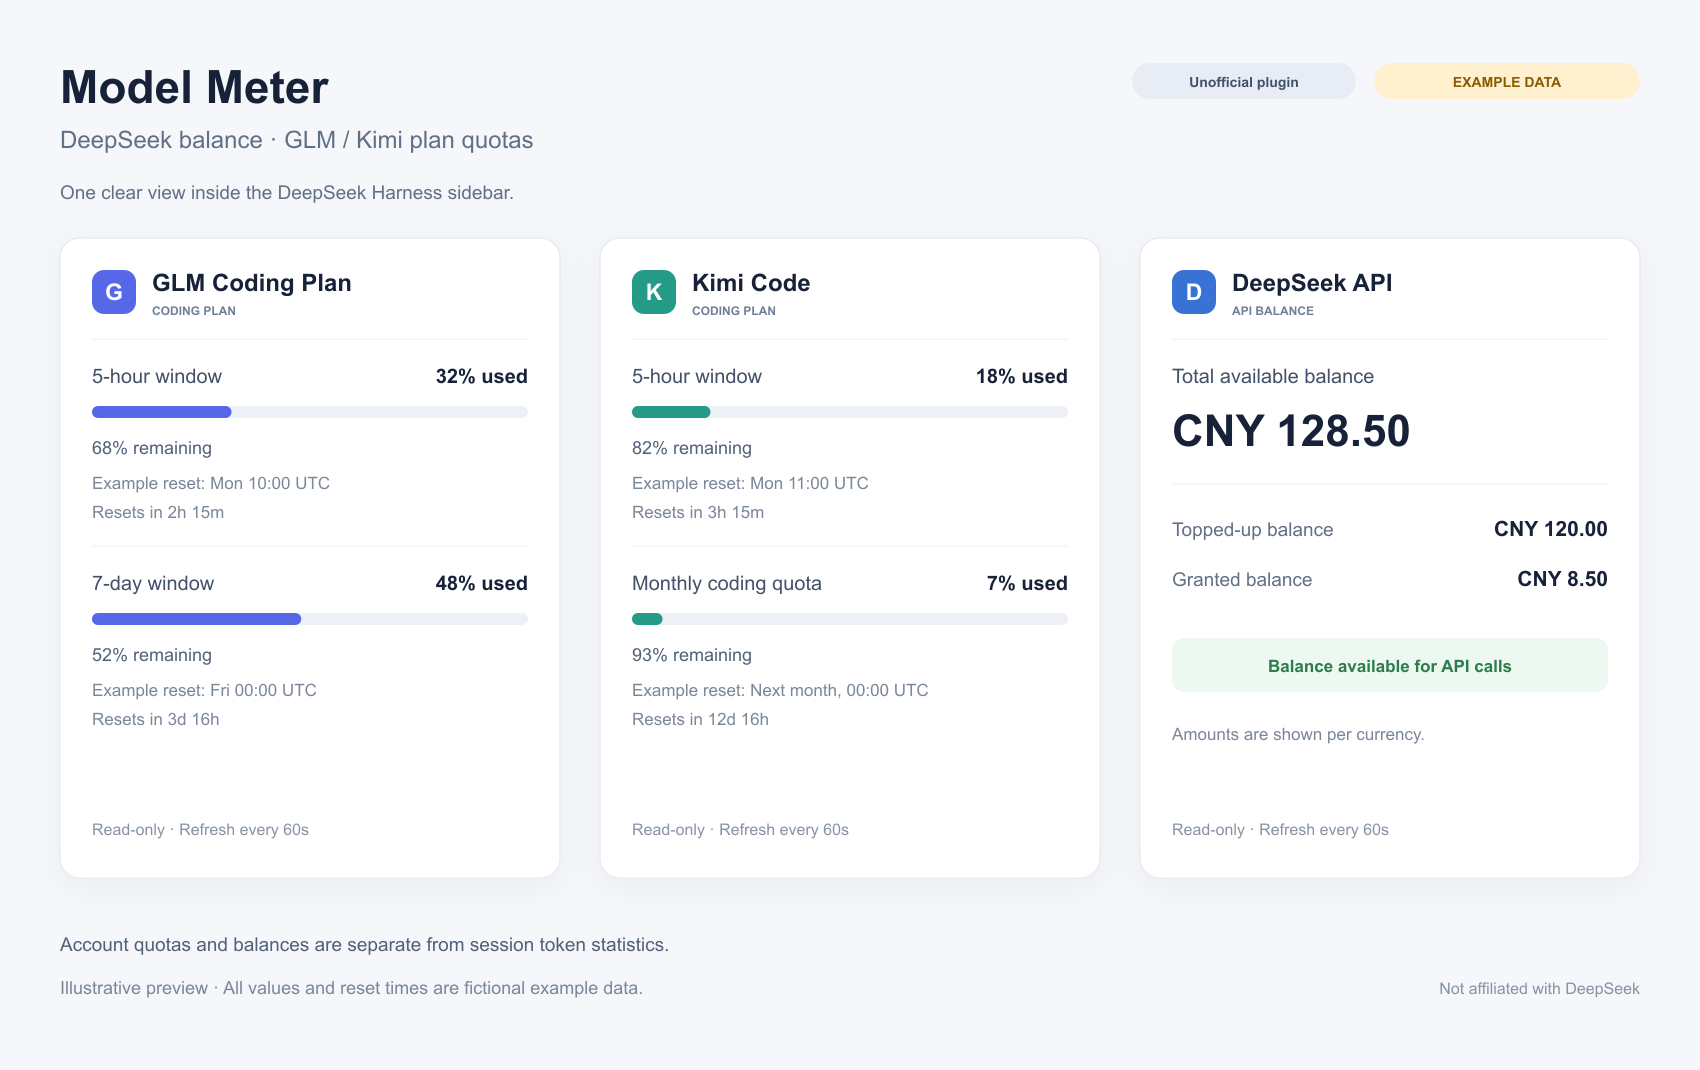
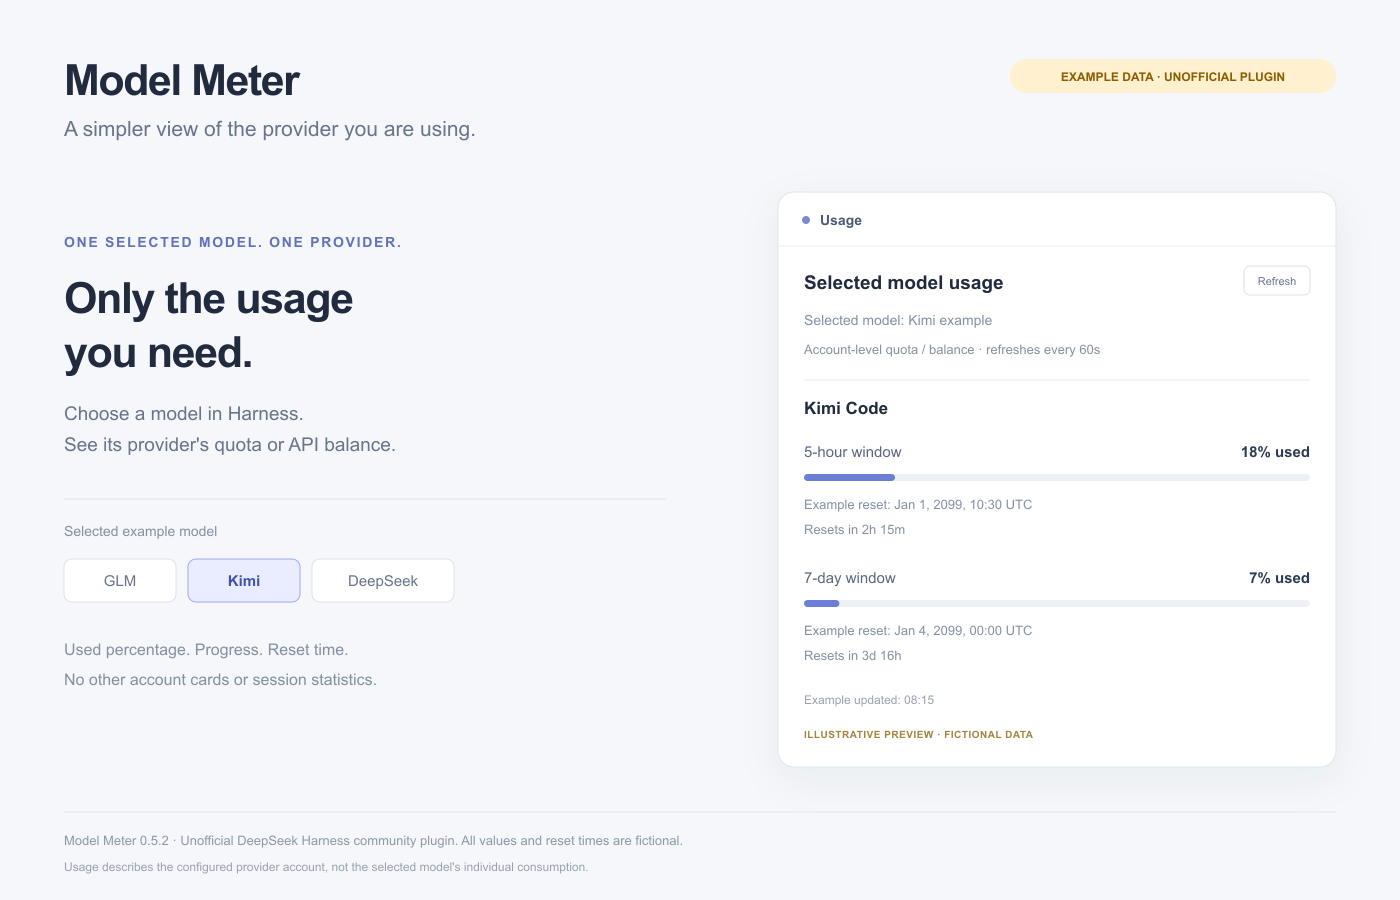
Update compact single-provider preview and offline demo

diff --git a/docs/demo.html b/docs/demo.html
@@ -4,54 +4,32 @@
 <meta charset="utf-8">
 <meta name="viewport" content="width=device-width, initial-scale=1">
 <meta http-equiv="Content-Security-Policy" content="default-src 'none'; style-src 'unsafe-inline'; script-src 'unsafe-inline'; connect-src 'none'; base-uri 'none'; form-action 'none'">
-<title>Model Meter · Offline example-data demo</title>
+<title>Model Meter 0.5.2 · Offline example-data demo</title>
 <style>
-:root{font-family:Inter,-apple-system,BlinkMacSystemFont,"Segoe UI",sans-serif;color:#172238;background:#f5f7fa;font-synthesis:none}*{box-sizing:border-box}body{margin:0}main{max-width:1320px;margin:auto;padding:48px 28px 32px}header{display:flex;justify-content:space-between;gap:24px;align-items:flex-start;margin-bottom:28px}h1{font-size:40px;letter-spacing:-1.4px;margin:0 0 10px}p{line-height:1.55}header p{margin:0;color:#627086;font-size:18px}.badges{display:flex;gap:8px;flex-wrap:wrap;justify-content:flex-end}.badge{border-radius:20px;padding:8px 13px;font-size:12px;font-weight:650;white-space:nowrap;background:#e8edf5;color:#42516a}.example{background:#fff0cf;color:#8a5d00}.toolbar{display:flex;gap:12px;align-items:center;margin:20px 0 24px;flex-wrap:wrap}button{font:inherit;font-size:13px;border:1px solid #dbe2ec;background:#fff;color:#35455f;border-radius:9px;padding:9px 13px;cursor:pointer}button:hover{border-color:#6277ad}button:focus-visible{outline:3px solid #8899ec;outline-offset:3px}button[aria-pressed="true"]{background:#e9edff;border-color:#99a7f0;color:#334bb2}#refresh-status{font-size:13px;color:#627086}.grid{display:grid;grid-template-columns:repeat(3,minmax(0,1fr));gap:24px}.card{background:#fff;border:1px solid #e0e6ee;border-radius:18px;padding:24px;box-shadow:0 8px 32px #1c2d4806;display:flex;flex-direction:column;min-height:550px}.provider{display:flex;align-items:center;gap:12px;padding-bottom:20px;border-bottom:1px solid #edf0f5;margin-bottom:24px}.icon{width:40px;height:40px;display:grid;place-items:center;border-radius:11px;font-weight:700;font-size:21px;color:#fff;background:var(--provider)}h2{font-size:20px;margin:0 0 3px}.kind{font-size:10px;letter-spacing:.6px;color:#718096;font-weight:700}.window+.window{border-top:1px solid #edf0f5;margin-top:25px;padding-top:25px}.row{display:flex;align-items:baseline;justify-content:space-between;gap:14px;font-size:15px;color:#43516a}.row strong{color:#172238;white-space:nowrap}.meter{height:9px;background:#edf0f5;border-radius:9px;overflow:hidden;margin:14px 0 16px}.fill{height:100%;background:var(--provider);border-radius:9px}.remaining{font-size:14px;color:#526179;margin:0 0 14px}.meta{font-size:12px;color:#7a8799;margin:6px 0;line-height:1.6}.card footer{font-size:12px;color:#8792a3;margin-top:auto;padding-top:30px}.total-label{font-size:15px;color:#43516a;margin:0 0 16px}.amount{font-size:34px;font-weight:700;letter-spacing:-.6px;margin:0 0 27px}.balance-rows{border-top:1px solid #edf0f5;padding-top:22px;display:grid;gap:20px}.ok{padding:14px 10px;border-radius:10px;text-align:center;background:#edf8f1;color:#2c7c4c;font-size:13px;font-weight:550;margin:30px 0 17px}.page-footer{color:#526179;font-size:13px;padding-top:28px}.disclaimer{color:#7a8799;font-size:12px}.sr-only{position:absolute;width:1px;height:1px;overflow:hidden;clip:rect(0,0,0,0)}@media(max-width:1000px){.grid{grid-template-columns:1fr}.card{min-height:0}.card footer{padding-top:24px}header{flex-direction:column}.badges{justify-content:flex-start}main{max-width:640px;padding-top:28px}h1{font-size:34px}}
+:root{font-family:Inter,-apple-system,BlinkMacSystemFont,"Segoe UI",sans-serif;font-synthesis:none;color:#202b3f;background:#f5f7fa}*{box-sizing:border-box}body{margin:0}main{max-width:1160px;margin:auto;padding:44px 28px}header{display:flex;justify-content:space-between;align-items:flex-start;gap:20px;margin-bottom:35px}h1{font-size:38px;letter-spacing:-1.3px;margin:0 0 9px}p{line-height:1.6}header p{margin:0;color:#68758a}.badges{display:flex;gap:8px;flex-wrap:wrap;justify-content:flex-end}.badge{padding:8px 12px;border-radius:20px;font-size:11px;font-weight:650;background:#e8edf4;color:#526078;white-space:nowrap}.example{background:#fff0cf;color:#8a5d00}.layout{display:grid;grid-template-columns:minmax(0,1fr) 420px;gap:54px;align-items:start}.intro{padding-top:12px}.eyebrow{font-size:12px;font-weight:700;letter-spacing:1.4px;color:#6272bb;margin:0 0 15px}.intro h2{font-size:34px;line-height:1.22;letter-spacing:-1px;margin:0 0 20px;max-width:420px}.intro>p{color:#68758a;font-size:15px;max-width:460px}.controls{padding:22px 0;border-top:1px solid #e0e6ee;margin-top:28px}.control-label{display:block;font-size:12px;color:#68758a;margin-bottom:12px}.models,.languages{display:flex;gap:8px;flex-wrap:wrap}.languages{margin-top:20px}button{font:inherit;font-size:13px;border:1px solid #dbe2ec;background:#fff;color:#485970;border-radius:8px;padding:9px 12px;cursor:pointer}button:hover{border-color:#7482b3}button:focus-visible{outline:3px solid #899bea;outline-offset:3px}button[aria-pressed="true"]{background:#e9edff;color:#3f52b3;border-color:#9ca9ec}.provider-note{font-size:12px!important;margin-top:25px!important;max-width:440px}.sidebar{border:1px solid #dde4ed;background:#fff;border-radius:14px;box-shadow:0 12px 44px #2739560a;overflow:hidden}.tabbar{display:flex;align-items:center;gap:9px;padding:14px 18px;border-bottom:1px solid #e7ebf1;font-size:13px;font-weight:600;color:#4d5a73}.dot{width:7px;height:7px;border-radius:50%;background:#7d8bcc}.panel{padding:20px}.panel-header{display:flex;align-items:center;justify-content:space-between;gap:12px;margin-bottom:15px}.panel-header h2{font-size:16px;font-weight:650;margin:0}.refresh{padding:6px 9px;font-size:11px}.meta{font-size:12px;line-height:1.6;color:#8490a2;margin:5px 0}.scope{max-width:340px}.provider{border-top:1px solid #e7ebf1;padding-top:18px;margin-top:18px}.provider h3{font-size:14px;margin:0 0 22px;font-weight:650}.window+.window{margin-top:24px}.row{display:flex;justify-content:space-between;align-items:baseline;gap:10px;font-size:13px;color:#59687f}.row strong{color:#2c3b54;font-weight:600;white-space:nowrap}.meter{height:6px;background:#edf0f5;border-radius:6px;margin:11px 0 10px;overflow:hidden}.fill{height:100%;background:#6b7fd4;border-radius:6px}.updated{margin-top:24px;font-size:11px;color:#97a1b0}.balance-rows{display:grid;gap:17px;margin:18px 0 22px}.amount strong{font-size:15px}.available{color:#39835b;margin-top:17px}.panel-footer{margin:25px 0 0;font-size:10px;letter-spacing:.45px;font-weight:650;color:#a1843e}.page-footer{font-size:11px;line-height:1.7;color:#8d98a8;border-top:1px solid #e2e7ef;padding-top:20px;margin-top:38px}.status{font-size:12px;color:#76839a;min-height:20px;margin-top:20px}.screenreader{position:absolute;width:1px;height:1px;overflow:hidden;clip:rect(0,0,0,0)}@media(max-width:850px){main{max-width:540px;padding:28px 20px}.layout{grid-template-columns:1fr;gap:22px}header{flex-direction:column}.badges{justify-content:flex-start}.intro h2{font-size:29px}.controls{margin-top:20px}.provider-note{margin-top:12px!important}header{margin-bottom:22px}h1{font-size:32px}}
 </style>
 </head>
 <body>
 <main>
-<header>
-<div><h1>Model Meter</h1><p data-t="subtitle">DeepSeek balance · GLM / Kimi plan quotas</p></div>
-<div class="badges"><span class="badge" data-t="unofficial">Unofficial DeepSeek Harness plugin</span><span class="badge example" data-t="example">EXAMPLE DATA · OFFLINE DEMO</span></div>
-</header>
-<p class="meta" data-t="notice">Illustrative UI preview. All values and reset times are fictional. This page does not access accounts or send network requests.</p>
-<div class="toolbar">
-<button type="button" id="english" aria-pressed="true">English</button><button type="button" id="chinese" aria-pressed="false">中文</button>
-<button type="button" id="refresh" data-t="refresh">Simulate refresh</button>
-<span id="refresh-status" role="status" aria-live="polite"></span>
-</div>
-<div class="grid">
-<section class="card" style="--provider:#5668e8" aria-labelledby="glm-title">
-<div class="provider"><span class="icon" aria-hidden="true">G</span><div><h2 id="glm-title">GLM Coding Plan</h2><span class="kind" data-t="plan">CODING PLAN</span></div></div>
-<div class="window"><div class="row"><span data-t="fiveHour">5-hour window</span><strong data-t="used32">32% used</strong></div><div class="meter" role="progressbar" aria-label="GLM 5-hour usage (example)" aria-valuemin="0" aria-valuemax="100" aria-valuenow="32"><div class="fill" style="width:32%"></div></div><p class="remaining" data-t="remaining68">68% remaining</p><p class="meta" data-t="glmReset5">Example reset: Mon 10:00 UTC</p><p class="meta" data-t="in2h">Resets in 2h 15m</p></div>
-<div class="window"><div class="row"><span data-t="sevenDay">7-day window</span><strong data-t="used48">48% used</strong></div><div class="meter" role="progressbar" aria-label="GLM weekly usage (example)" aria-valuemin="0" aria-valuemax="100" aria-valuenow="48"><div class="fill" style="width:48%"></div></div><p class="remaining" data-t="remaining52">52% remaining</p><p class="meta" data-t="glmReset7">Example reset: Fri 00:00 UTC</p><p class="meta" data-t="in3d">Resets in 3d 16h</p></div>
-<footer data-t="refreshNote">Read-only · Plugin refreshes every 60s</footer>
-</section>
-<section class="card" style="--provider:#239b86" aria-labelledby="kimi-title">
-<div class="provider"><span class="icon" aria-hidden="true">K</span><div><h2 id="kimi-title">Kimi Code</h2><span class="kind" data-t="plan">CODING PLAN</span></div></div>
-<div class="window"><div class="row"><span data-t="fiveHour">5-hour window</span><strong data-t="used18">18% used</strong></div><div class="meter" role="progressbar" aria-label="Kimi 5-hour usage (example)" aria-valuemin="0" aria-valuemax="100" aria-valuenow="18"><div class="fill" style="width:18%"></div></div><p class="remaining" data-t="remaining82">82% remaining</p><p class="meta" data-t="kimiReset5">Example reset: Mon 11:00 UTC</p><p class="meta" data-t="in3h">Resets in 3h 15m</p></div>
-<div class="window"><div class="row"><span data-t="monthlyCode">Monthly coding quota</span><strong data-t="used7">7% used</strong></div><div class="meter" role="progressbar" aria-label="Kimi monthly coding usage (example)" aria-valuemin="0" aria-valuemax="100" aria-valuenow="7"><div class="fill" style="width:7%"></div></div><p class="remaining" data-t="remaining93">93% remaining</p><p class="meta" data-t="kimiResetMonth">Example reset: Next month, 00:00 UTC</p><p class="meta" data-t="in12d">Resets in 12d 16h</p></div>
-<footer data-t="refreshNote">Read-only · Plugin refreshes every 60s</footer>
-</section>
-<section class="card" style="--provider:#3972d5" aria-labelledby="deepseek-title">
-<div class="provider"><span class="icon" aria-hidden="true">D</span><div><h2 id="deepseek-title">DeepSeek API</h2><span class="kind" data-t="balance">API BALANCE</span></div></div>
-<p class="total-label" data-t="total">Total available balance</p><p class="amount">CNY 128.50</p>
-<div class="balance-rows"><div class="row"><span data-t="topped">Topped-up balance</span><strong>CNY 120.00</strong></div><div class="row"><span data-t="granted">Granted balance</span><strong>CNY 8.50</strong></div></div>
-<p class="ok" data-t="available">Balance available for API calls</p><p class="meta" data-t="currency">Amounts are shown per currency.</p>
-<footer data-t="refreshNote">Read-only · Plugin refreshes every 60s</footer>
-</section>
-</div>
-<div class="page-footer"><p data-t="scope">Account quotas and balances are separate from session token statistics.</p><p class="disclaimer" data-t="disclaimer">Model Meter is an unofficial third-party plugin. It is not affiliated with or endorsed by DeepSeek, Z.ai, or Moonshot AI. This demo uses fictional example data only.</p></div>
+<header><div><h1>Model Meter</h1><p data-t="subtitle">A simpler view of the provider you are using.</p></div><div class="badges"><span class="badge" data-t="unofficial">Unofficial Harness plugin · 0.5.2</span><span class="badge example" data-t="example">EXAMPLE DATA · OFFLINE DEMO</span></div></header>
+<div class="layout">
+<section class="intro" aria-labelledby="intro-title"><p class="eyebrow" data-t="eyebrow">ONE SELECTED MODEL. ONE PROVIDER.</p><h2 id="intro-title" data-t="headline">Only the usage you need.</h2><p data-t="description">Select a model in Harness. Its provider's quota or API balance appears in the Usage sidebar, without the other account cards or session statistics.</p>
+<div class="controls"><span class="control-label" data-t="choose">Choose a fictional model example</span><div class="models" aria-label="Example model selection"><button type="button" data-provider="glm" aria-pressed="false">GLM</button><button type="button" data-provider="kimi" aria-pressed="true">Kimi</button><button type="button" data-provider="deepseek" aria-pressed="false">DeepSeek</button></div><div class="languages"><button type="button" id="english" aria-pressed="true">English</button><button type="button" id="chinese" aria-pressed="false">中文</button></div><p id="status" class="status" role="status" aria-live="polite"></p></div>
+<p class="provider-note" data-t="notice">This is an illustrative preview. Every percentage, amount, and reset time is fictional. This page has no account connection and sends no network requests.</p></section>
+<aside class="sidebar" aria-label="Illustrative Usage sidebar"><div class="tabbar"><span class="dot" aria-hidden="true"></span><span data-t="tab">Usage</span></div><section class="panel" aria-labelledby="panel-title"><div class="panel-header"><h2 id="panel-title" data-t="panelTitle">Selected model usage</h2><button type="button" class="refresh" id="refresh" data-t="refresh">Simulate refresh</button></div><p id="selected-model" class="meta"></p><p class="meta scope" data-t="scope">Account-level plan quotas / API balance, refreshed every 60s.</p><div id="provider" class="provider"></div><p class="updated" id="updated"></p><p class="panel-footer" data-t="panelFooter">ILLUSTRATIVE PREVIEW · FICTIONAL DATA</p></section></aside>
+</div><footer class="page-footer" data-t="disclaimer">Model Meter is an unofficial community plugin, independently maintained. Not affiliated with or endorsed by DeepSeek, Z.ai, or Moonshot/Kimi. The selected model chooses the provider; usage describes the configured account, not that individual model.</footer>
 </main>
 <script>
 'use strict';
-const zh={subtitle:'DeepSeek 余额 · GLM / Kimi 套餐额度',unofficial:'非官方 DeepSeek Harness 插件',example:'示例数据 · 离线演示',notice:'界面示意预览。所有金额、额度和重置时间均为虚构示例。本页不访问账号，也不发送网络请求。',refresh:'模拟刷新',plan:'CODING PLAN 套餐',balance:'API 余额',fiveHour:'5 小时窗口',sevenDay:'7 天窗口',monthlyCode:'月度编程额度',used32:'已用 32%',used48:'已用 48%',used18:'已用 18%',used7:'已用 7%',remaining68:'剩余 68%',remaining52:'剩余 52%',remaining82:'剩余 82%',remaining93:'剩余 93%',glmReset5:'示例重置：周一 10:00 UTC',glmReset7:'示例重置：周五 00:00 UTC',kimiReset5:'示例重置：周一 11:00 UTC',kimiResetMonth:'示例重置：下月 00:00 UTC',in2h:'距重置 2 小时 15 分',in3d:'距重置 3 天 16 小时',in3h:'距重置 3 小时 15 分',in12d:'距重置 12 天 16 小时',total:'总可用余额',topped:'充值余额',granted:'赠送余额',available:'余额可用于 API 调用',currency:'金额按币种分别展示。',refreshNote:'只读查询 · 插件每 60 秒刷新',scope:'账号额度与余额，同本会话的 Token 统计分别计算。',disclaimer:'Model Meter 为非官方第三方插件，与 DeepSeek、Z.ai、Moonshot AI 无隶属关系，亦未获其背书。本演示仅使用虚构示例数据。'};
-const en={};document.querySelectorAll('[data-t]').forEach(el=>{en[el.dataset.t]=el.textContent});
-let language='en';let refreshed=false;
-function showStatus(){document.getElementById('refresh-status').textContent=refreshed?(language==='zh'?'模拟刷新完成；示例数值保持不变。':'Simulated refresh complete; example values unchanged.'):(language==='zh'?'仅为示例，不连接任何账号。':'Example only. No account connection.');}
-function setLanguage(value){language=value;document.documentElement.lang=value==='zh'?'zh-CN':'en';const dict=value==='zh'?zh:en;document.querySelectorAll('[data-t]').forEach(el=>{el.textContent=dict[el.dataset.t]});document.getElementById('english').setAttribute('aria-pressed',String(value==='en'));document.getElementById('chinese').setAttribute('aria-pressed',String(value==='zh'));showStatus();}
-document.getElementById('english').addEventListener('click',()=>setLanguage('en'));document.getElementById('chinese').addEventListener('click',()=>setLanguage('zh'));document.getElementById('refresh').addEventListener('click',()=>{refreshed=true;showStatus()});showStatus();
+const copy={
+ en:{subtitle:'A simpler view of the provider you are using.',unofficial:'Unofficial Harness plugin · 0.5.2',example:'EXAMPLE DATA · OFFLINE DEMO',eyebrow:'ONE SELECTED MODEL. ONE PROVIDER.',headline:'Only the usage you need.',description:"Select a model in Harness. Its provider's quota or API balance appears in the Usage sidebar, without the other account cards or session statistics.",choose:'Choose a fictional model example',notice:'This is an illustrative preview. Every percentage, amount, and reset time is fictional. This page has no account connection and sends no network requests.',tab:'Usage',panelTitle:'Selected model usage',refresh:'Simulate refresh',scope:'Account-level plan quotas / API balance, refreshed every 60s.',panelFooter:'ILLUSTRATIVE PREVIEW · FICTIONAL DATA',disclaimer:'Model Meter is an unofficial community plugin, independently maintained. Not affiliated with or endorsed by DeepSeek, Z.ai, or Moonshot/Kimi. The selected model chooses the provider; usage describes the configured account, not that individual model.',selected:'Selected model: ',five:'5-hour window',seven:'7-day window',monthly:'Monthly coding quota',used:n=>`${n}% used`,reset:t=>`Example reset: ${t}`,countdown:t=>`Resets in ${t}`,total:'Total available balance',topped:'Topped-up balance',granted:'Granted balance',available:'Balance available for API calls',api:'API balance',updated:'Example updated: 08:15',status:'Example only. No account connection.',refreshed:'Simulated refresh complete; fictional values unchanged.'},
+ zh:{subtitle:'更简洁地查看正在使用的服务商用量。',unofficial:'非官方 Harness 插件 · 0.5.2',example:'示例数据 · 离线演示',eyebrow:'选中一个模型，只看对应服务商。',headline:'需要的用量，一眼看到。',description:'在 Harness 中选择模型，右侧“用量”只显示对应服务商的套餐额度或 API 余额，省去其他账号卡片和会话统计。',choose:'选择一个虚构模型示例',notice:'这是界面示意预览。所有比例、金额和重置时间均为虚构数据。本页不连接账号，不发送网络请求。',tab:'用量',panelTitle:'当前模型用量',refresh:'模拟刷新',scope:'服务商账号层面的套餐额度 / API 余额，每 60 秒自动刷新。',panelFooter:'界面示意 · 虚构示例数据',disclaimer:'Model Meter 是由社区独立维护的非官方插件，与 DeepSeek、Z.ai、Moonshot/Kimi 无隶属关系，亦未获其背书。选中模型决定查询的服务商；用量属于配置账号，并非该模型的独立消耗。',selected:'当前模型：',five:'5 小时窗口',seven:'7 天窗口',monthly:'月度编程额度',used:n=>`已用 ${n}%`,reset:t=>`示例重置：${t}`,countdown:t=>`距重置 ${t}`,total:'总可用余额',topped:'充值余额',granted:'赠送余额',available:'余额可用于 API 调用',api:'API 余额',updated:'示例更新于 08:15',status:'仅为示例，不连接任何账号。',refreshed:'模拟刷新完成，虚构示例数值保持不变。'}
+};
+const examples={glm:{model:'GLM example',label:'GLM Coding Plan',windows:[{key:'five',percent:32,reset:'2099-01-01 10:30 UTC',countdown:['2h 15m','2 小时 15 分']},{key:'seven',percent:48,reset:'2099-01-04 00:00 UTC',countdown:['3d 16h','3 天 16 小时']}]},kimi:{model:'Kimi example',label:'Kimi Code',windows:[{key:'five',percent:18,reset:'2099-01-01 10:30 UTC',countdown:['2h 15m','2 小时 15 分']},{key:'seven',percent:7,reset:'2099-01-04 00:00 UTC',countdown:['3d 16h','3 天 16 小时']}]},deepseek:{model:'DeepSeek example',label:'DeepSeek API'}};
+let language='en',selected='kimi',refreshed=false;
+function el(tag,cls,text){const n=document.createElement(tag);if(cls)n.className=cls;if(text!==undefined)n.textContent=text;return n;}
+function draw(){const t=copy[language],e=examples[selected];document.documentElement.lang=language==='zh'?'zh-CN':'en';document.querySelectorAll('[data-t]').forEach(n=>{n.textContent=t[n.dataset.t]});document.getElementById('selected-model').textContent=t.selected+e.model;const p=document.getElementById('provider');p.replaceChildren(el('h3','',e.label));if(e.windows){for(const w of e.windows){const box=el('div','window'),row=el('div','row');row.append(el('span','',t[w.key]),el('strong','',t.used(w.percent)));const bar=el('div','meter');bar.setAttribute('role','progressbar');bar.setAttribute('aria-label',`${e.label} ${t[w.key]} (example)`);bar.setAttribute('aria-valuemin','0');bar.setAttribute('aria-valuemax','100');bar.setAttribute('aria-valuenow',String(w.percent));const fill=el('div','fill');fill.style.width=w.percent+'%';bar.append(fill);box.append(row,bar,el('p','meta',t.reset(w.reset)),el('p','meta',t.countdown(w.countdown[language==='zh'?1:0])));p.append(box);}}else{p.append(el('p','meta',t.api));const rows=el('div','balance-rows');for(const [key,value] of [['total','CNY 128.50'],['topped','CNY 120.00'],['granted','CNY 8.50']]){const row=el('div','row'+(key==='total'?' amount':''));row.append(el('span','',t[key]),el('strong','',value));rows.append(row);}p.append(rows,el('p','meta available',t.available));}document.getElementById('updated').textContent=t.updated;document.getElementById('status').textContent=refreshed?t.refreshed:t.status;document.querySelectorAll('[data-provider]').forEach(b=>b.setAttribute('aria-pressed',String(b.dataset.provider===selected)));document.getElementById('english').setAttribute('aria-pressed',String(language==='en'));document.getElementById('chinese').setAttribute('aria-pressed',String(language==='zh'));}
+document.querySelectorAll('[data-provider]').forEach(b=>b.addEventListener('click',()=>{selected=b.dataset.provider;refreshed=false;draw()}));document.getElementById('english').addEventListener('click',()=>{language='en';draw()});document.getElementById('chinese').addEventListener('click',()=>{language='zh';draw()});document.getElementById('refresh').addEventListener('click',()=>{refreshed=true;draw()});draw();
 </script>
 </body>
 </html>
